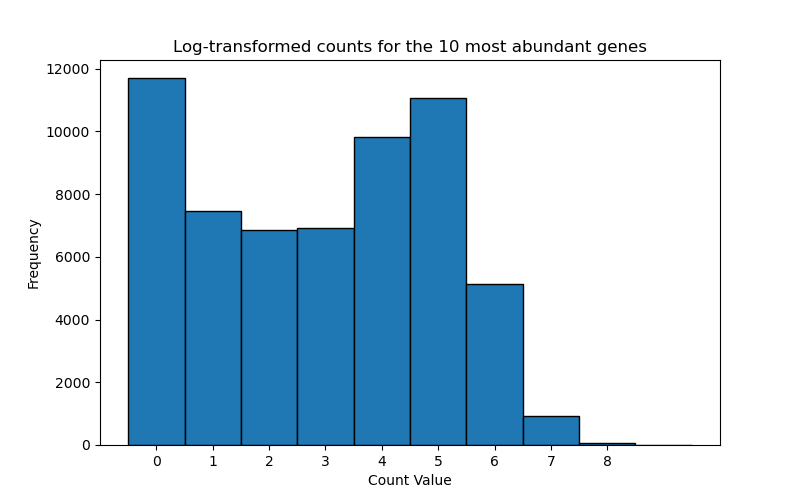
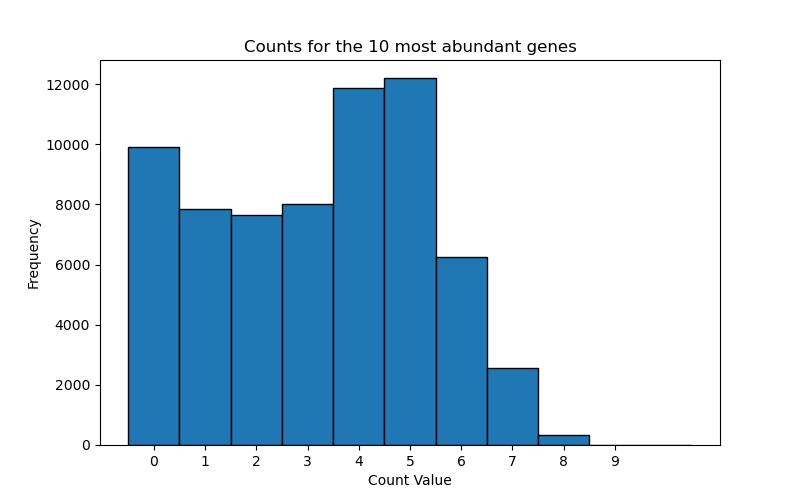
fixed histograms

diff --git a/histograms/histogram_separate_genes.py b/histograms/histogram_separate_genes.py
@@ -3,8 +3,8 @@ import pandas as pd
 import matplotlib.pyplot as plt
 
 count_matrix = "/storage/shared/data_for_master_students/ida_and_ellen/count_matrix.tsv"
-#highest_raw_counts = "/storage/koningen/ranked_counts/highest_raw_counts.tsv"
-lowest_raw_counts = "/storage/koningen/ranked_counts/lowest_raw_counts.tsv"
+highest_raw_counts = "/storage/koningen/ranked_counts/highest_raw_counts.tsv"
+#lowest_raw_counts = "/storage/koningen/ranked_counts/lowest_raw_counts.tsv"
 
 num_top_rows = 10
 max_zero_percentage = 0.25
@@ -25,17 +25,17 @@ with open(count_matrix, "r") as infile:
         # Only include rows with more than 75% non-zero
         if zero_percentage <= max_zero_percentage:
            #max_value = max(numeric_values)  # Find the maximum value in the row
-           min_value = min(numeric_values) # Find the minimum value in the row
-           values.append((identifier, min_value))  # Store as tuple (identifier, max_value)
+           max_value = max(numeric_values) # Find the minimum value in the row
+           values.append((identifier, max_value))  # Store as tuple (identifier, max_value)
 
-# Sort by the maximum value (highest to lowest)
+# Sort
 values.sort(key=lambda x: x[1], reverse=True)
 
 # Get the top N identifiers based on the highest individual values
 top_identifiers = {identifier for identifier, _ in values[:num_top_rows]}
 
 # Filter the original file to keep only the rows with identifiers in the selected list
-with open(count_matrix, "r") as infile, open(lowest_raw_counts, "w") as outfile:
+with open(count_matrix, "r") as infile, open(highest_raw_counts, "w") as outfile:
     header = next(infile)  # Read and write the header
     outfile.write(header)
 
@@ -48,7 +48,7 @@ with open(count_matrix, "r") as infile, open(lowest_raw_counts, "w") as outfile:
 
 
 #### Histogram #####
-df = pd.read_csv(lowest_raw_counts, sep="\t", skiprows=1).iloc[:, 1:] 
+df = pd.read_csv(highest_raw_counts, sep="\t", skiprows=1).iloc[:, 1:] 
 all_values = df.values.flatten()
 
 # Apply transformation
@@ -59,6 +59,6 @@ plt.figure(figsize=(8, 5))
 plt.hist(all_values, bins=np.arange(all_values.max() + 2) - 0.5, edgecolor='black')
 plt.xlabel("Log-transformed Count Value")
 plt.ylabel("Frequency")
-plt.title(f"Log-transformed counts for the {num_top_rows} genes with the lowest individual values")
+plt.title(f"Log-transformed counts for the {num_top_rows} genes with the highest individual values")
 plt.xticks(range(int(all_values.max()) + 1))  # Ensure discrete values on x-axis
-plt.savefig("histograms/bilder/genes_filtered/histogram_genes_lowest_individual.png")
+plt.savefig("histograms/bilder/genes_filtered/histogram_genes_highest_individual.png")

diff --git a/histograms/histogram_sum_genes.py b/histograms/histogram_sum_genes.py
@@ -3,10 +3,10 @@ import pandas as pd
 import matplotlib.pyplot as plt
 
 count_matrix = "/storage/shared/data_for_master_students/ida_and_ellen/count_matrix.tsv"
-#highest_raw_counts = "/storage/koningen/ranked_counts/highest_raw_counts.tsv"
-lowest_raw_counts = "test.tsv" #"/storage/koningen/ranked_counts/lowest_raw_counts.tsv"
+highest_raw_counts = "/storage/koningen/ranked_counts/highest_sum_counts.tsv"
+#lowest_raw_counts = "/storage/koningen/ranked_counts/lowest_sum_counts.tsv"
 
-num_top_rows = 2
+num_top_rows = 10
 max_zero_percentage = 0.25
 
 sums = []
@@ -27,14 +27,14 @@ with open(count_matrix, "r") as infile:
             row_sum = sum(numeric_values)  # Sum the values
             sums.append((identifier, row_sum))  # Store as tuple (identifier, sum)
 
-# Sort sums by sum value (lowest to highest)
-sums.sort(key=lambda x: x[1], reverse=False)  # False for ascending (lowest first)
+# Sort sums
+sums.sort(key=lambda x: x[1], reverse=True)  # False for ascending, true for decending
 
 # Get the top N identifiers based on sum
 top_identifiers = {identifier for identifier, _ in sums[:num_top_rows]}
 
 # Filter the original file to keep only the rows with identifiers in the selected list
-with open(count_matrix, "r") as infile, open(lowest_raw_counts, "w") as outfile:
+with open(count_matrix, "r") as infile, open(highest_raw_counts, "w") as outfile:
     header = next(infile)  # Read and write the header
     outfile.write(header)
 
@@ -48,7 +48,7 @@ with open(count_matrix, "r") as infile, open(lowest_raw_counts, "w") as outfile:
 
 #### Histogram #####
 
-df = pd.read_csv(lowest_raw_counts, sep="\t", header=0).iloc[:, 1:]  # Skip first column (identifier)
+df = pd.read_csv(highest_raw_counts, sep="\t", header=0).iloc[:, 1:]  # Skip first column (identifier)
 all_values = df.values.flatten()
 
 # Apply transformation
@@ -59,6 +59,6 @@ plt.figure(figsize=(8, 5))
 plt.hist(all_values, bins=np.arange(all_values.max() + 2) - 0.5, edgecolor='black')
 plt.xlabel("Count Value")
 plt.ylabel("Frequency")
-plt.title(f"Counts for the {num_top_rows} least abundant genes")
+plt.title(f"Counts for the {num_top_rows} most abundant genes")
 plt.xticks(range(int(all_values.max()) + 1))  # Ensure discrete values on x-axis
-plt.savefig("histograms/bilder/genes_filtered/histogram_genes_lowest_sum.png")
+plt.savefig("histograms/bilder/genes_filtered/histogram_genes_highest_sum.png")

diff --git a/histograms/histogram_mean_genes.py b/histograms/histogram_mean_genes.py
@@ -3,8 +3,8 @@ import pandas as pd
 import matplotlib.pyplot as plt
 
 count_matrix = "/storage/shared/data_for_master_students/ida_and_ellen/count_matrix.tsv"
-#highest_mean_counts = "/storage/koningen/ranked_counts/highest_average_counts.tsv"
-lowest_mean_counts = "/storage/koningen/ranked_counts/lowest_average_counts.tsv"
+highest_mean_counts = "/storage/koningen/ranked_counts/highest_average_counts.tsv"
+#lowest_mean_counts = "/storage/koningen/ranked_counts/lowest_average_counts.tsv"
 
 num_top_rows = 10
 max_zero_percentage = 0.25
@@ -34,7 +34,7 @@ means.sort(key=lambda x: x[1], reverse=True)
 top_identifiers = {identifier for identifier, _ in means[:num_top_rows]}
 
 # Filter the original file to keep only the rows with identifiers in the selected list
-with open(count_matrix, "r") as infile, open(lowest_mean_counts, "w") as outfile:
+with open(count_matrix, "r") as infile, open(highest_mean_counts, "w") as outfile:
     header = next(infile)  # Read and write the header
     outfile.write(header)
 
@@ -47,7 +47,7 @@ with open(count_matrix, "r") as infile, open(lowest_mean_counts, "w") as outfile
 
 
 #### Histogram #####
-df = pd.read_csv(lowest_mean_counts, sep="\t", skiprows=1).iloc[:, 1:] 
+df = pd.read_csv(highest_mean_counts, sep="\t", skiprows=1).iloc[:, 1:] 
 all_values = df.values.flatten()
 
 # Apply log transformation
@@ -58,6 +58,6 @@ plt.figure(figsize=(8, 5))
 plt.hist(all_values, bins=np.arange(all_values.max() + 2) - 0.5, edgecolor='black')
 plt.xlabel("Log-transformed Count Value")
 plt.ylabel("Frequency")
-plt.title(f"Log-transformed counts for the {num_top_rows} genes with the lowest mean")
+plt.title(f"Log-transformed counts for the {num_top_rows} genes with the highest mean")
 plt.xticks(range(int(all_values.max()) + 1))  # Ensure discrete values on x-axis
-plt.savefig("histograms/bilder/genes_filtered/histogram_genes_lowest_mean.png")
+plt.savefig("histograms/bilder/genes_filtered/histogram_genes_highest_mean.png")
